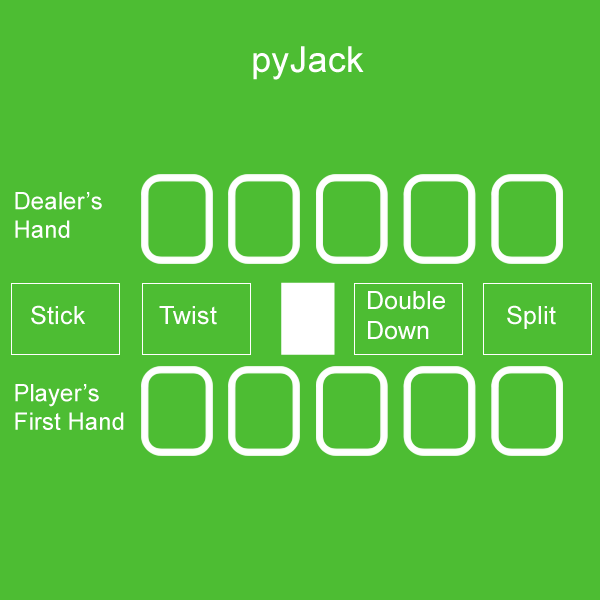
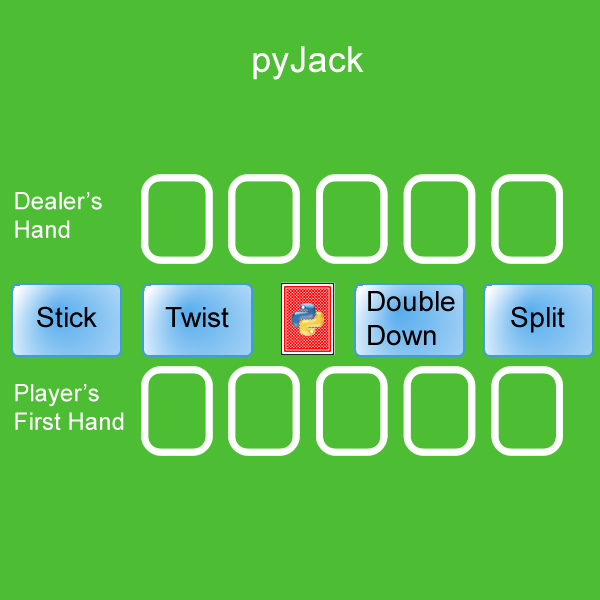
Made UI changes
Added python logo to back of cards. Added buttons for stick, twist etc so the game looks better.
There are also buttons for when the player is making a bet. When the player makes a choice, the invalid
choices are covered by a green rectangle. The game also has an icon. This commit includes bug fixes.

Changed region(s): [[0.45, 0.45, 0.99, 0.6], [0.0, 0.45, 0.42, 0.6]]

diff --git a/gui_blackjack.py b/gui_blackjack.py
@@ -24,10 +24,16 @@ TEXTCOLOR = (255, 255, 255)
 BGCOLOR = (77, 189, 51) 
 
 
-#Setup initial pygame window 
-main_clock = pygame.time.Clock()
-window_surface = pygame.display.set_mode((WINDOWWIDTH, WINDOWHEIGHT))
+#Draw icon and captions
+icon_surface = pygame.Surface((32, 32))
+icon = pygame.image.load(os.path.join('assets','logo32x32.png'))
+icon_surface.set_colorkey((0,0,0))
+icon_surface.blit(icon, (0,0))
+pygame.display.set_icon(icon_surface)
 pygame.display.set_caption('pyJack')
+
+#Setup initial pygame window 
+window_surface = pygame.display.set_mode((WINDOWWIDTH, WINDOWHEIGHT))
 pygame.mouse.set_visible(True)
 window_surface.fill(BGCOLOR)
 
@@ -36,7 +42,7 @@ font = pygame.font.SysFont(None, 48)
 
 
 draw_start_screen(font, window_surface, WINDOWWIDTH, WINDOWHEIGHT, TEXTCOLOR) #Display the start screen
-pygame.display.update() #Draw this on the screen
+pygame.display.update() #Draw start screen on the screen
 
 wait_for_player_to_press_key() #Don't begin untill player has pressed a key
 
@@ -51,14 +57,14 @@ while True: #Main loop of game
         # Tells player what has happened and that the game will close
         draw_text("You have run out of chips", font, window_surface, 300, 200, TEXTCOLOR)
         draw_text("The game will now close", pygame.font.SysFont(None, 42), window_surface, 300, 350, TEXTCOLOR)
-        pygame.display.update()
+        pygame.display.update() # Shows text
         time.sleep(2) # Gives player chance to read message
         sys.exit() # Close game
     deck = classes.Deck() # Create the deck
-    #Create the initial hands
+    # Create the initial hands
     player_hand = classes.Hand()
     dealer_hand = classes.DealerHand()
-    #Add 2 cards to each hand
+    # Add 2 cards to each hand
     for i in range(2):
         player_hand.twist(deck)
         dealer_hand.twist(deck)
@@ -69,9 +75,8 @@ while True: #Main loop of game
     background = os.path.join("assets","background.png")
     background_surface = pygame.image.load(background)
     window_surface.blit(background_surface, (0,0))
-    pygame.display.update()
     time.sleep(0.4) # Mimics time taken to deal first card
-    deal_cards(player_hand, dealer_hand, PLAYER_HAND_COORDINATES, DEALER_HAND_COORDINATES, window_surface, 0.4) #Deal cards
+    deal_cards(player_hand, dealer_hand, PLAYER_HAND_COORDINATES, DEALER_HAND_COORDINATES, window_surface, 0.4) # Deal cards
     
     if dealer_hand.return_first_card().return_rank() == 'A': # If the dealer shows an Ace
         window_surface.fill(BGCOLOR) # Fill screen with BGCOLOR
@@ -83,10 +88,16 @@ while True: #Main loop of game
         background_surface = pygame.image.load(background)
         window_surface.blit(background_surface, (0,0))
         
-        insurance_bet = get_bet(int(math.floor(bet/2)), 0, "", font, window_surface, 0, os.path.join("assets","background_insurance.png"), True)
+        insurance_bet = get_bet(int(math.floor(bet/2)), 0, "", font, window_surface, 0, background, True)
         
-        if dealer_hand.return_score() == 21:
+        s = "" #Will hold an "s" if the insurance bet is more than one
+        if bet != 1:
+            s = "s"
+            
+        if dealer_hand.return_score() == 21: # If the dealer has blackjacl
             dealer_blackjack = True
+            
+            #Draw default background
             background = os.path.join("assets", "background.png")
             background_surface = pygame.image.load(background)
             window_surface.blit(background_surface, (0,0))
@@ -95,59 +106,47 @@ while True: #Main loop of game
             draw_hand(dealer_hand, DEALER_HAND_COORDINATES, window_surface, 0)
             draw_hand(player_hand, PLAYER_HAND_COORDINATES, window_surface, 0)
             
-            pygame.display.update()
+            pygame.display.update() # Show hands to player
             time.sleep(1)
             
             window_surface.fill(BGCOLOR) # Fill screen with BGCOLOR
             draw_text("Dealer shows blackjack", font, window_surface, 300, 200, TEXTCOLOR)
-            draw_text("You've won %s chips" % (insurance_bet), font, window_surface, 300, 300, TEXTCOLOR)
+            draw_text("You've won %s chip%s" % (insurance_bet, s), font, window_surface, 300, 300, TEXTCOLOR)
             pygame.display.update()
             player_chips += insurance_bet
             time.sleep(1.5)
             
-        else:
+        else: # If dealer doesn't have blackjack
             dealer_blackjack = False
             window_surface.fill(BGCOLOR) # Fill screen with BGCOLOR
             draw_text("Dealer doesn't have blackjack", font, window_surface, 300, 200, TEXTCOLOR)
-            draw_text("You've lost %s chips" % (insurance_bet), font, window_surface, 300, 300, TEXTCOLOR)
+            draw_text("You've lost %s chip%s" % (insurance_bet, s), font, window_surface, 300, 300, TEXTCOLOR)
             pygame.display.update()
             player_chips -= insurance_bet
             time.sleep(2)
     
-    while True: #Main interface for game
-        #Show the availabe options
-        background = os.path.join("assets", "background_options.png") 
-        background_surface = pygame.image.load(background)
-        window_surface.blit(background_surface, (0,0))
-        #Display hands
+    while True: # Main interface for game
+        # Display hands
         draw_dealer_hand(dealer_hand, DEALER_HAND_COORDINATES, window_surface, 0)
         draw_hand(player_hand, PLAYER_HAND_COORDINATES, window_surface, 0)
         
         pygame.display.update() #Refresh display
         
-        while True: #Let player make a choice
-        
-            #Set default background
-            background = os.path.join("assets","background.png")
-            background_surface = pygame.image.load(background)
-            window_surface.blit(background_surface, (0,0))
-            
-            pygame.display.update()
-            
-            #Show options
+        while True: # Let player make a choice
+            # Show options
             background = os.path.join("assets","background_options.png") 
             background_surface = pygame.image.load(background)
             window_surface.blit(background_surface, (0,0))    
-            #Show hands
+            # Show hands
             draw_dealer_hand(dealer_hand, DEALER_HAND_COORDINATES, window_surface, 0)
             draw_hand(player_hand, PLAYER_HAND_COORDINATES, window_surface, 0)      
-            pygame.display.update() # Refresh display
             
-            choice = get_choice(player_hand, deck, split) #Get choice
+            choice = get_choice(player_hand, deck, split, window_surface) #Get choice
             
             if choice == "Twist":
-                draw_dealer_hand(dealer_hand, DEALER_HAND_COORDINATES, window_surface, 0) # Draw dealer's hand
-                pygame.display.update() # Update display
+                #draw_dealer_hand(dealer_hand, DEALER_HAND_COORDINATES, window_surface, 0) # Draw dealer's hand
+                #pygame.display.update() # Update display
+                pass
             elif choice == "Stick":
                 break
             elif choice == "DoubleDown":
@@ -196,10 +195,9 @@ while True: #Main loop of game
                 pygame.display.update()
                 
                 while True:
-                    choice = get_choice(player_hand, deck, split)
+                    choice = get_choice(player_hand, deck, split, window_surface)
                     if choice == "Twist":
                         draw_hand(player_hand, PLAYER_HAND_COORDINATES, window_surface, 0) # Draw player's hand
-                        pygame.display.update() # Update display
                     elif choice == "Stick":
                         break
                         
@@ -221,24 +219,34 @@ while True: #Main loop of game
                 pygame.display.update()
                 
                 while True:
-                    choice = get_choice(player_hand2, deck, split)
+                    choice = get_choice(player_hand2, deck, split, window_surface)
                     if choice == "Twist":
                         draw_hand(player_hand2, PLAYER_HAND2_COORDINATES, window_surface, 0) # Draw player's hand
-                        pygame.display.update() # Update display
                     elif choice == "Stick":
                         break
                 break
         
         if split == False and player_hand.return_score() < 22: # Dealer should only get more cards if player isn't bust and hasn't split
+            background = os.path.join("assets","background.png") 
+            background_surface = pygame.image.load(background)
+            window_surface.blit(background_surface, (0,0))
+            draw_hand(player_hand, PLAYER_HAND_COORDINATES, window_surface, 0)
+            draw_dealer_hand(dealer_hand, DEALER_HAND_COORDINATES, window_surface, 0)
             dealer_hand = dealer_decision(dealer_hand, DEALER_HAND_COORDINATES, window_surface, deck)
         elif split == True: # If player has split
+            background = os.path.join("assets","background_insurance.png") 
+            background_surface = pygame.image.load(background)
+            window_surface.blit(background_surface, (0,0))
+            draw_hand(player_hand, PLAYER_HAND_COORDINATES, window_surface, 0)
+            draw_hand(player_hand2, PLAYER_HAND2_COORDINATES, window_surface, 0)
+            draw_dealer_hand(dealer_hand, DEALER_HAND_COORDINATES, window_surface, 0)
             dealer_hand = dealer_decision(dealer_hand, DEALER_HAND_COORDINATES, window_surface, deck)
         
         s = "" #Will hold an "s" if the bet is more than one
         if bet != 1:
             s = "s"
         
-        if split == False: # If the player hasn't split 
+        if split == False: # If the player hasn't split
             # Get the outcome of the round and change player's chips
             outcome = find_winner(player_hand, dealer_hand)
             window_surface.fill(BGCOLOR)

diff --git a/functions.py b/functions.py
@@ -82,26 +82,83 @@ def deal_cards(p_hand, d_hand, p_coords, d_coords, surface, pause): #Deals the c
     #Show the player's cards
     draw_hand(p_hand, p_coords, surface, pause)
     
-def get_choice(hand, deck, split): #Allows the player to choose what to do
+def get_choice(hand, deck, split, surface): # Allows the player to choose what to do
+    blank_surface = pygame.Surface((111, 74))
+    blank_surface.fill((77, 189, 51))
     while True:
-        event = pygame.event.poll()
-        if event.type == MOUSEBUTTONDOWN and event.button == 1:
-            coords = list(event.pos)
-            if coords[0] > 11 and coords[1] > 283 and coords[0] < 120 and coords[1] < 355: #In the Stick box
-                return "Stick"
-            if coords[0] > 142 and coords[1] > 283 and coords[0] < 251 and coords[1] < 355 and hand.can_twist(): #In the Twist box and the player can twist
-                twist(hand, deck)
-                return "Twist"
-            if coords[0] > 354 and coords[1] > 283 and coords[0] < 463 and coords[1] < 355 and hand.can_twist() and split == False and len(hand.return_hand()) == 2: #In the double down box and the player can twist and the player hasn't split and the hand has only two cards
-                return "DoubleDown"
-            if coords[0] > 483 and coords[1] > 283 and coords[1] < 592 and coords[1] < 355 and hand.return_hand()[0].return_rank() == hand.return_hand()[1].return_rank() and split == False and len(hand.return_hand()) == 2: #In the Split box and the first two cards are equal and the player hasn't split and the hand has only two cards
-                return "Split"
+        if hand.return_hand()[0].return_rank() == hand.return_hand()[1].return_rank() and split == False and len(hand.return_hand()) == 2 and hand.can_twist(): # If the player has two cards of equal rank, hasn't split, only has two cards in hand and can twist
+            pygame.display.update()
+            event = pygame.event.poll()
+            if event.type == MOUSEBUTTONDOWN and event.button == 1:
+                coords = list(event.pos)
+                if coords[0] > 11 and coords[1] > 283 and coords[0] < 120 and coords[1] < 355: # In the Stick box
+                    return "Stick"
+                if coords[0] > 142 and coords[1] > 283 and coords[0] < 251 and coords[1] < 355: # In the Twist box
+                    twist(hand, deck)
+                    return "Twist"
+                if coords[0] > 354 and coords[1] > 283 and coords[0] < 463 and coords[1] < 355: # In the double down box 
+                    return "DoubleDown"
+                if coords[0] > 483 and coords[1] > 283 and coords[1] < 592 and coords[1] < 355: # In the Split box 
+                    return "Split"
+            elif event.type == QUIT:
+                sys.exit()
+            elif event.type == KEYDOWN:
+                if event.key == K_ESCAPE: # pressing escape quits
+                    sys.exit()
+                    
+        elif hand.can_twist() and split == False and len(hand.return_hand()) == 2: # If the player has two cards, can twist and hasn't split
+            surface.blit(blank_surface, (483, 283)) # Draw green rectangle over split button
+            pygame.display.update()
+            event = pygame.event.poll()
+            if event.type == MOUSEBUTTONDOWN and event.button == 1:
+                coords = list(event.pos)
+                if coords[0] > 11 and coords[1] > 283 and coords[0] < 120 and coords[1] < 355: # In the Stick box
+                    return "Stick"
+                if coords[0] > 142 and coords[1] > 283 and coords[0] < 251 and coords[1] < 355: # In the Twist box 
+                    twist(hand, deck)
+                    return "Twist"
+                if coords[0] > 354 and coords[1] > 283 and coords[0] < 463 and coords[1] < 355: # In the double down box 
+                    return "DoubleDown"
+            elif event.type == QUIT:
+                sys.exit()
+            elif event.type == KEYDOWN:
+                if event.key == K_ESCAPE: # pressing escape quits
+                    sys.exit()
+                    
+        elif hand.can_twist(): # If the player can twist
+            surface.blit(blank_surface, (483, 283)) # Draw green rectangle over split button
+            surface.blit(blank_surface, (354, 283)) # Draw green rectangle over double down button
+            pygame.display.update()
+            event = pygame.event.poll()
+            if event.type == MOUSEBUTTONDOWN and event.button == 1:
+                coords = list(event.pos)
+                if coords[0] > 11 and coords[1] > 283 and coords[0] < 120 and coords[1] < 355: # In the Stick box
+                    return "Stick"
+                if coords[0] > 142 and coords[1] > 283 and coords[0] < 251 and coords[1] < 355: # In the Twist box 
+                    twist(hand, deck)
+                    return "Twist"
+            elif event.type == QUIT:
+                sys.exit()
+            elif event.type == KEYDOWN:
+                if event.key == K_ESCAPE: # pressing escape quits
+                    sys.exit()
+        else: # If the player can only stick
+            surface.blit(blank_surface, (483, 283)) # Draw green rectangle over split button
+            surface.blit(blank_surface, (354, 283)) # Draw green rectangle over double down button
+            surface.blit(blank_surface, (142, 283)) # Draw green rectangle over twist button
+            pygame.display.update()
+            event = pygame.event.poll()
+            if event.type == MOUSEBUTTONDOWN and event.button == 1:
+                coords = list(event.pos)
+                if coords[0] > 11 and coords[1] > 283 and coords[0] < 120 and coords[1] < 355: # In the Stick box
+                    return "Stick"
+            elif event.type == QUIT:
+                sys.exit()
+            elif event.type == KEYDOWN:
+                if event.key == K_ESCAPE: # pressing escape quits
+                    sys.exit()
                 
-        elif event.type == QUIT:
-                sys.exit()
-        elif event.type == KEYDOWN:
-            if event.key == K_ESCAPE: # pressing escape quits
-                sys.exit()
+        
 
 def get_bet(upper_limit, lower_limit, chips, font, surface, bet, background, insurance): #Gets the amount player wants to bet
     background_surface = pygame.image.load(background)
@@ -172,11 +229,11 @@ def find_winner(pHand, dHand): #This function checks to see what the outcome of 
 def dealer_decision(hand, coords, surface, deck): #This function will add cards to dealer's hand untill he scores 17 or more
     while True:
         draw_hand(hand, coords, surface, 0.4) #Draw the complete dealer's hand
-        if hand.return_score() > 16: #If the score is 17 or more
+        if hand.return_score() < 17 and len(hand.return_hand()) < 5: #If the score is 17 or more
+                hand.twist(deck)
+        else:
                 time.sleep(1.5)
                 return hand
-        else:
-                hand.twist(deck)
 
 def display_winner(text, font, surface, color): #This functions shows the player how many chips he has lost
     draw_text(text, font, surface, 300, 200, color) #Draw the message

diff --git a/classes.py b/classes.py
@@ -81,7 +81,7 @@ class Hand(object): #The player's hand will be a direct object of this class
         return score  
 
     def can_twist(self):
-        if self.return_score() < 21:
+        if self.return_score() < 21 and len(self.hand) < 5:
             return True
         else:
             return False
